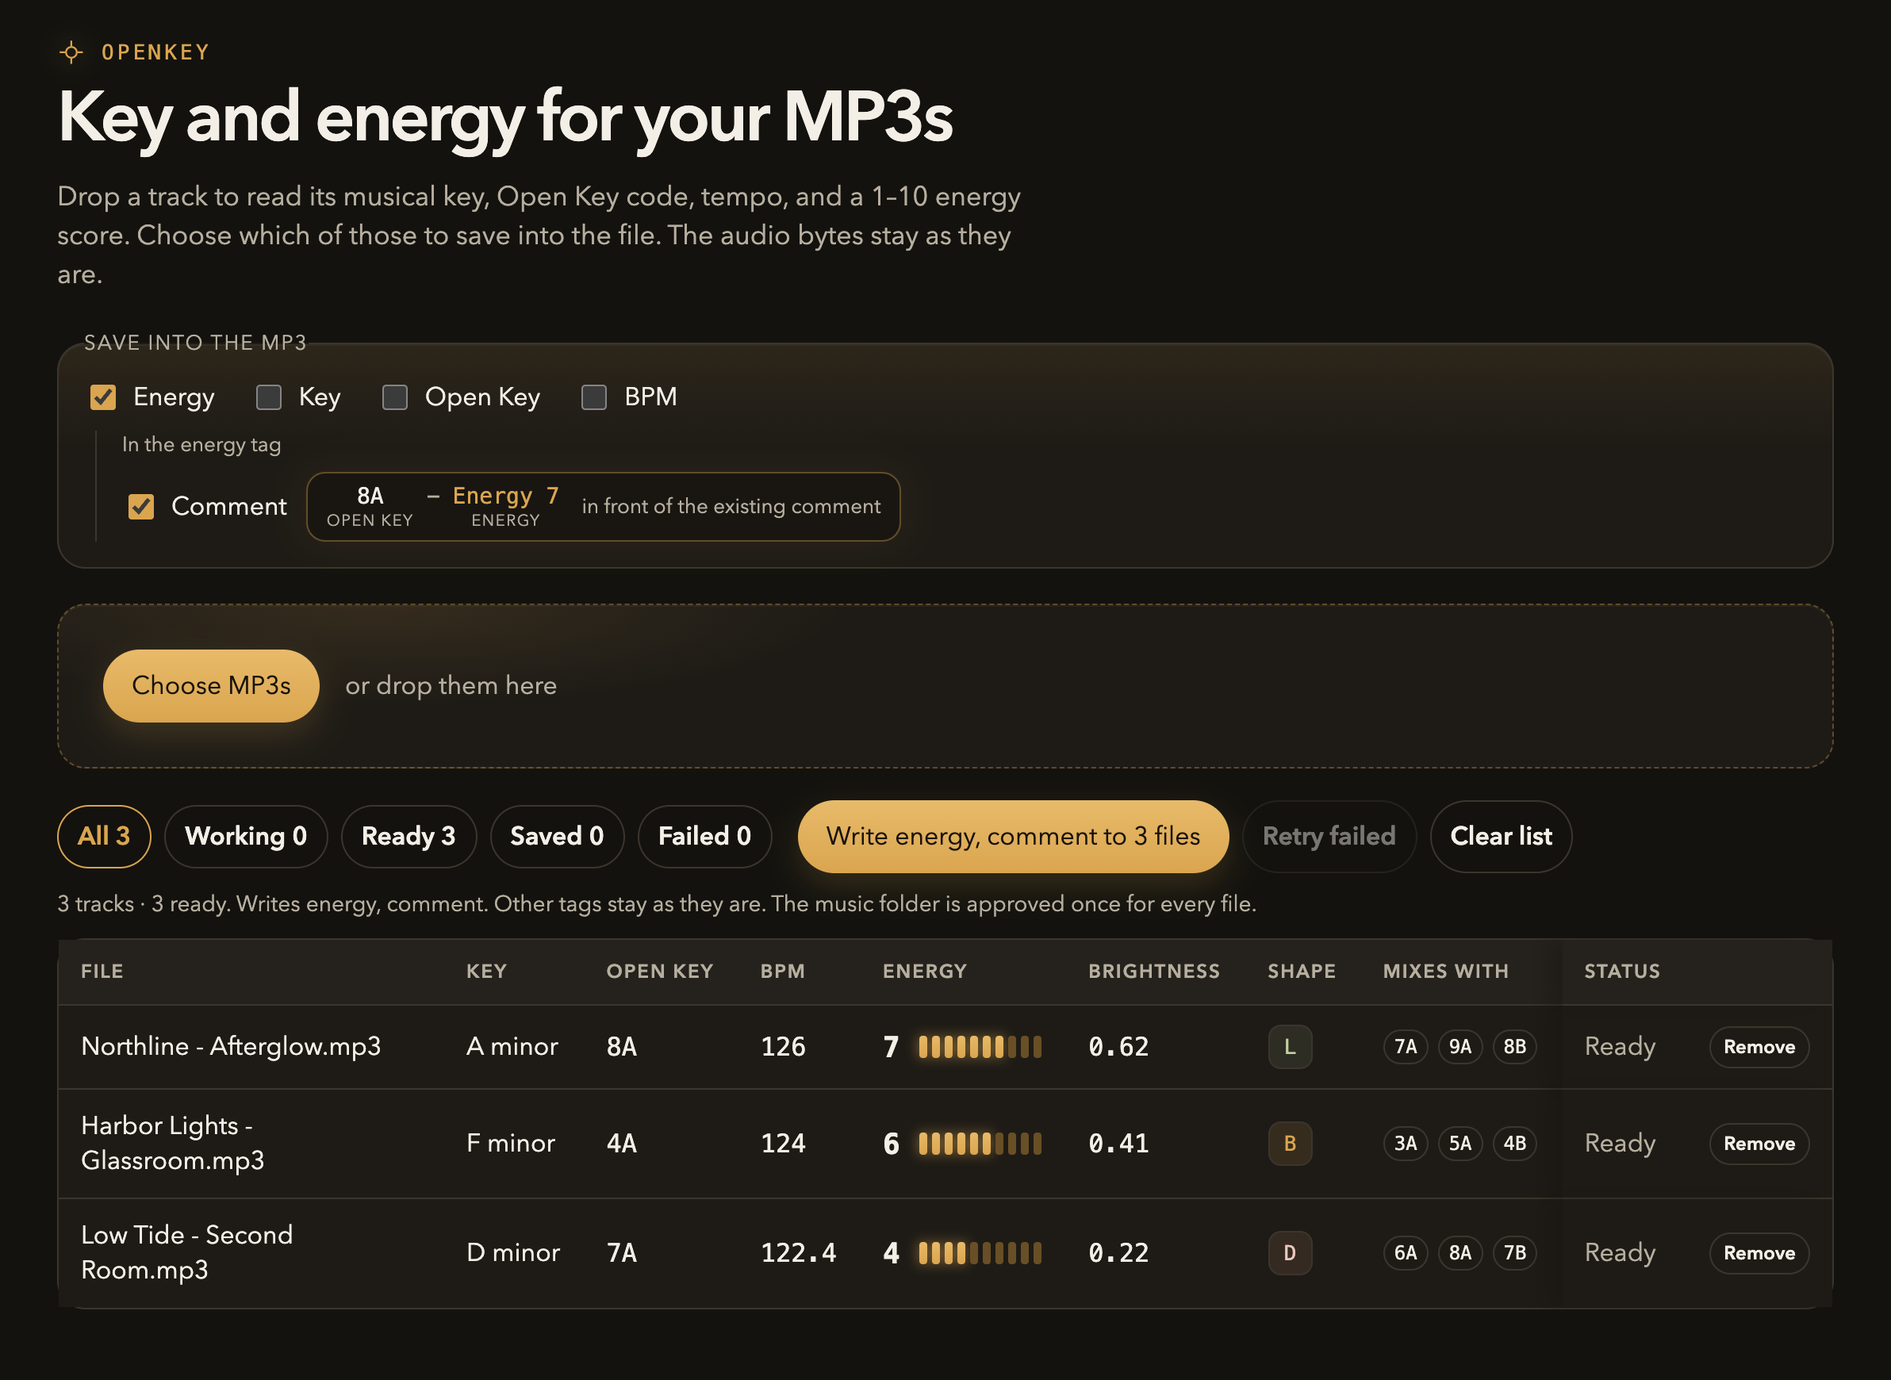
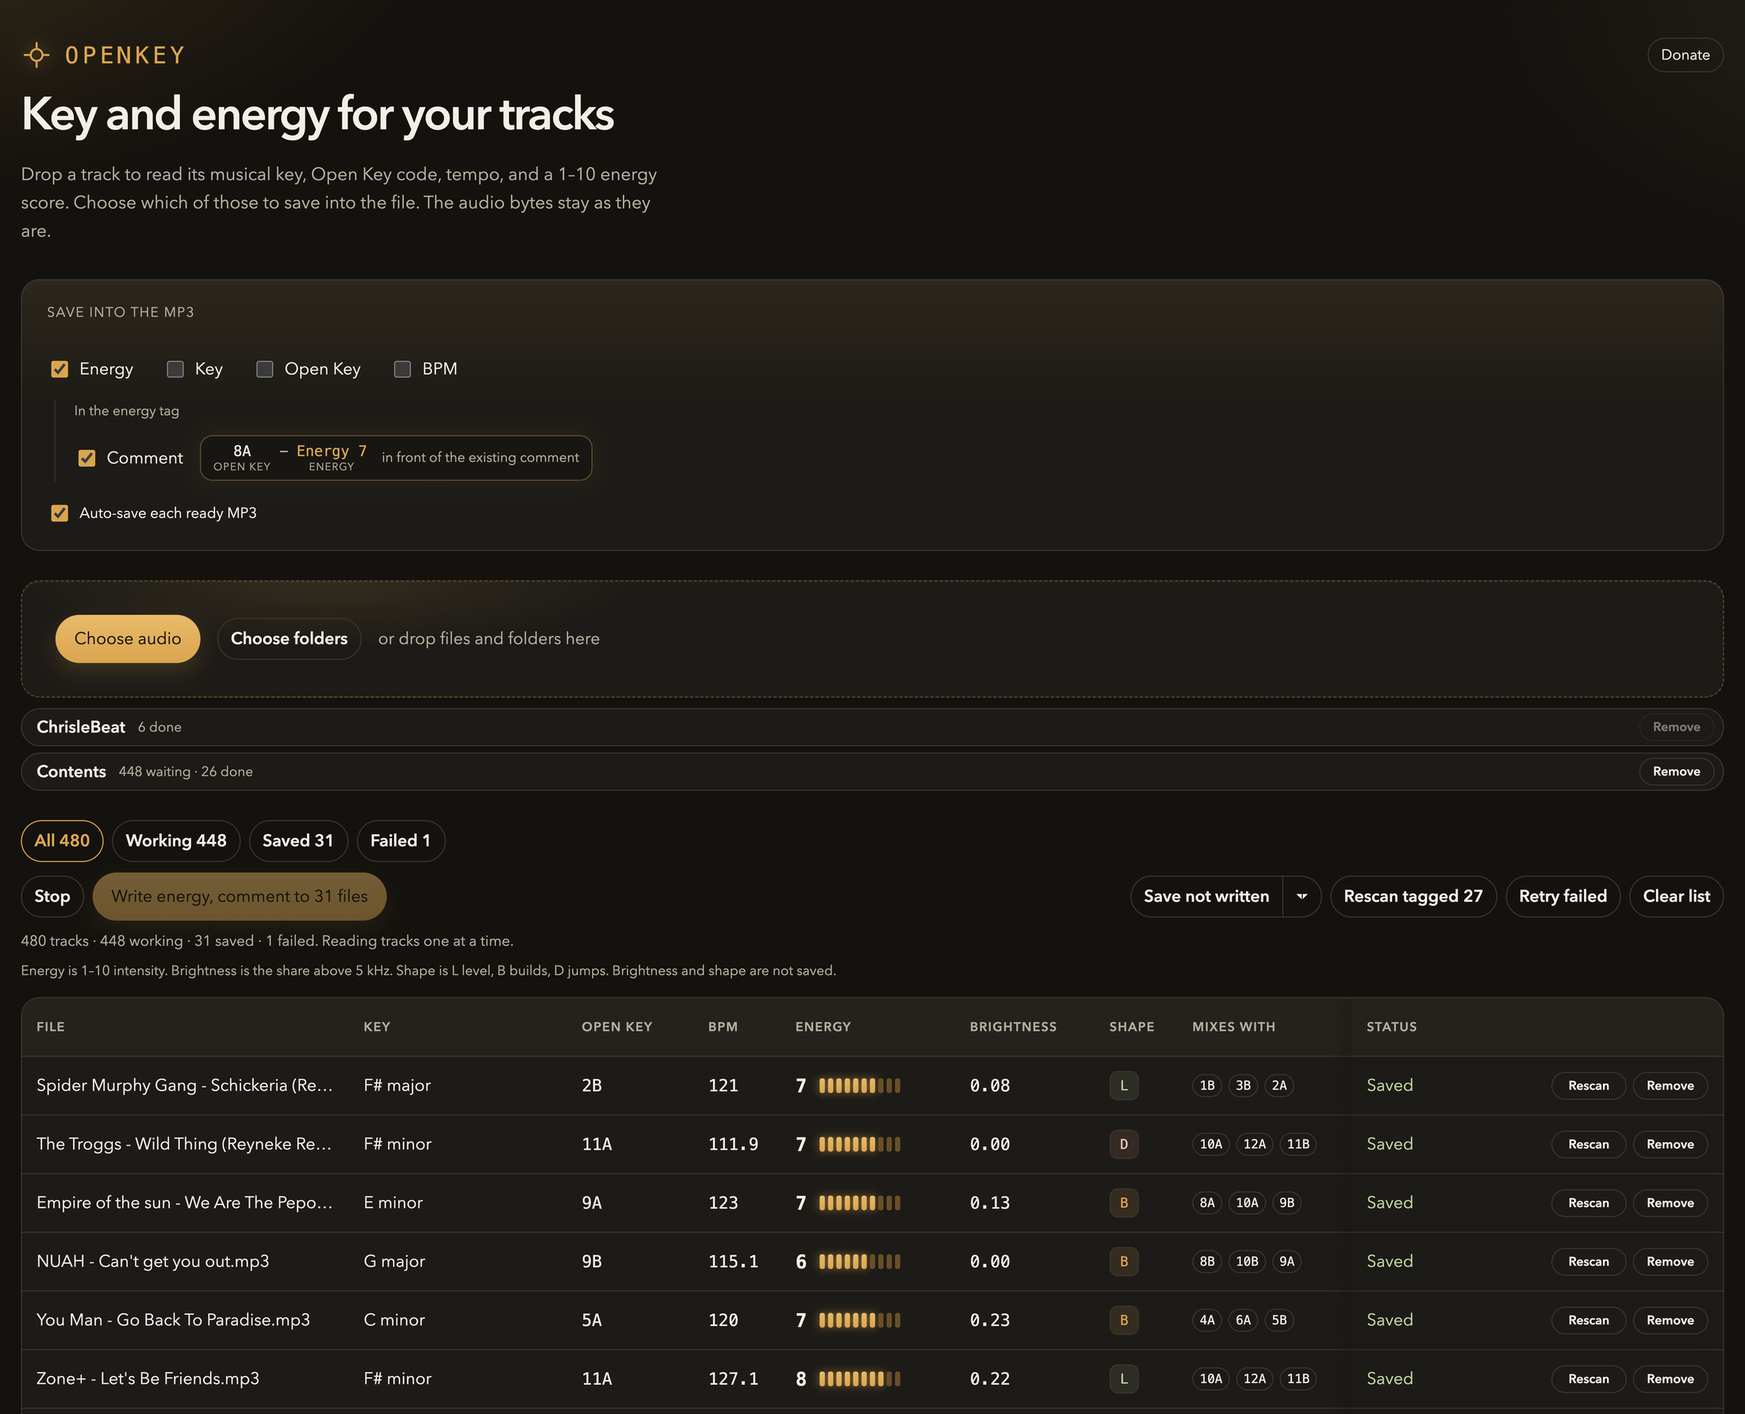
Save ready MP3s through a folder that is already allowed, and wait for one allow instead of a dialog per file. Bring the README and screenshot up to the current page.

diff --git a/src/App.tsx b/src/App.tsx
@@ -4,7 +4,7 @@ import type { Analysis } from "./analysis/types.ts"
 import { mixesWith } from "./analysis/openKey.ts"
 import { audioPickerTypes, collectAudioEntries, isAudioFile, isMp3Name } from "./files/audio.ts"
 import { ALL_COLUMNS, trackListCsv, UNWRITTEN_COLUMNS, type TrackListRow } from "./files/trackList.ts"
-import { canWrite, containingFolder, ensureWrite, grantedWriteHandle, loadLibraries, mergeFolders, pickFolder, rememberFolder, rememberMp3Paths, saveLibraries, type LibraryAccess } from "./files/library.ts"
+import { autoSaveAction, canWrite, containingFolder, ensureWrite, grantedWriteHandle, loadLibraries, mergeFolders, pickFolder, rememberFolder, rememberMp3Paths, saveLibraries, type LibraryAccess } from "./files/library.ts"
 import { queueFolderGroups, waitingIds } from "./files/queue.ts"
 import { formatMixedInKeyComment, isBulkRescanTarget, mergeShown, readStoredKeyFile, shouldSkipAnalysis, writeTags, type StoredKey } from "./id3/writeEnergy.ts"
 import "./App.css"
@@ -50,6 +50,7 @@ export default function App() {
   const [listExpanded, setListExpanded] = useState(false)
   const [autoSave, setAutoSave] = useState(readAutoSave)
   const autoSaveRef = useRef(autoSave)
+  autoSaveRef.current = autoSave
   const selectionRef = useRef<SaveSelection>({ energy: true, key: false, openKey: false, bpm: false, comment: true })
   selectionRef.current = {
     energy: saveEnergy,
@@ -128,17 +129,15 @@ export default function App() {
             }
           }
           if (shouldSkipAnalysis(track.analysis, track.rescan)) {
-            patch(id, {
-              status: track.status === "written" ? "written" : "ready",
-              stored,
-              rescan: false,
-            })
+            const status = track.status === "written" ? "written" : "ready"
+            patch(id, { status, stored, rescan: false })
+            if (status === "ready") queueReadySave(id)
             continue
           }
           const analysis = await analyzeFile(file)
           if (!tracksRef.current.some((item) => item.id === id)) continue
           patch(id, { status: "ready", analysis, stored, rescan: false })
-          if (!stoppedRef.current && autoSaveRef.current && isMp3Name(track.name)) queueAutoSave(id)
+          queueReadySave(id)
         } catch (error) {
           patch(id, { status: "error", error: messageOf(error) })
         }
@@ -146,6 +145,7 @@ export default function App() {
     } finally {
       runningRef.current = false
       if (!stoppedRef.current && queueRef.current.length > 0) void pump()
+      else if (!stoppedRef.current) queueFinishedSaves()
     }
   }
 
@@ -311,6 +311,16 @@ export default function App() {
     const selection = currentSelection()
     const ready = tracksToSave(includeWritten)
     if (ready.length === 0 || !hasSelection(selection)) return
+    const folders: FileSystemDirectoryHandle[] = []
+    for (const track of ready) {
+      if (track.directory && !folders.includes(track.directory)) folders.push(track.directory)
+    }
+    for (const folder of folders) {
+      if (await canWrite(folder)) continue
+      if (await ensureWrite(folder)) continue
+      showNotice(NEEDS_EDIT)
+      return
+    }
     writingRef.current = true
     setWriting(true)
     showNotice("")
@@ -323,6 +333,7 @@ export default function App() {
     } finally {
       writingRef.current = false
       setWriting(false)
+      if (!stoppedRef.current) void drainAutoSave()
     }
   }
 
@@ -340,55 +351,99 @@ export default function App() {
     }
   }
 
-  function queueAutoSave(id: string) {
+  function queueReadySave(id: string) {
+    const track = tracksRef.current.find((item) => item.id === id)
+    if (!track?.analysis || !isMp3Name(track.name)) return
+    if (stoppedRef.current || !autoSaveRef.current) return
     if (!saveQueueRef.current.includes(id)) saveQueueRef.current.push(id)
     void drainAutoSave()
+  }
+
+  function queueFinishedSaves() {
+    if (stoppedRef.current || !autoSaveRef.current) return
+    for (const track of tracksRef.current) {
+      if (track.status !== "ready" || !track.analysis || !isMp3Name(track.name)) continue
+      if (!saveQueueRef.current.includes(track.id)) saveQueueRef.current.push(track.id)
+    }
+    if (saveQueueRef.current.length > 0) void drainAutoSave()
   }
 
   async function drainAutoSave() {
     if (saveLoopRef.current) return
     saveLoopRef.current = true
     try {
-      for (;;) {
-        if (stoppedRef.current) {
-          saveQueueRef.current = []
-          break
-        }
+      while (!stoppedRef.current) {
+        if (writingRef.current) break
         const id = saveQueueRef.current.shift()
         if (!id) break
         const track = tracksRef.current.find((item) => item.id === id)
-        if (!track?.analysis || !isMp3Name(track.name) || !autoSaveRef.current) continue
-        await saveIfWritable(track)
+        if (!track) continue
+        try {
+          const deferred = await saveIfWritable(track)
+          if (deferred) {
+            if (!saveQueueRef.current.includes(id)) saveQueueRef.current.unshift(id)
+            break
+          }
+        } catch (error) {
+          const row = rowWriteMessage(error)
+          patch(id, { status: "ready", error: row })
+          if (!row) showNotice(NEEDS_EDIT)
+        }
       }
+      if (stoppedRef.current) saveQueueRef.current = []
     } finally {
       saveLoopRef.current = false
-      if (!stoppedRef.current && saveQueueRef.current.length > 0) void drainAutoSave()
+      if (!stoppedRef.current && !writingRef.current && saveQueueRef.current.length > 0) void drainAutoSave()
     }
   }
 
-  async function saveIfWritable(track: Track) {
+  /** True when the save was deferred because a manual write is in progress. The id stays queued. */
+  async function saveIfWritable(track: Track): Promise<boolean> {
+    if (writingRef.current) return true
     const selection = selectionRef.current
-    if (!hasSelection(selection) || writingRef.current) return
     const current = tracksRef.current.find((item) => item.id === track.id)
-    if (!current) return
-    const analysis = track.analysis ?? current.analysis
-    if (!analysis) return
-    patch(track.id, { status: "writing", error: undefined })
-    try {
-      const folder = await containingFolder(current.handle, current.directory, foldersRef.current)
-      const withFolder = { ...current, analysis, directory: folder ?? undefined }
-      const allowed = withFolder.directory ? await canWrite(withFolder.directory) : await canWrite(current.handle)
-      if (!allowed) {
-        patch(track.id, { status: "ready", error: undefined })
-        showNotice(NEEDS_EDIT)
-        return
+    if (!current?.analysis && !track.analysis) return false
+    if (!current) return false
+    if (current.status === "written") return false
+    if (current.status === "writing" && savingRef.current.has(current.id)) return false
+    const analysis = current.analysis ?? track.analysis
+    if (!analysis) return false
+    let folder = current.directory ?? null
+    if (!folder) {
+      try {
+        folder = await containingFolder(current.handle, undefined, foldersRef.current)
+      } catch {
+        folder = null
       }
-      if (await writeTrack(withFolder, selection)) clearNeedsEdit()
-    } catch (error) {
-      const row = rowWriteMessage(error)
-      patch(track.id, { status: "ready", error: row })
-      if (!row) showNotice(NEEDS_EDIT)
     }
+    if (writingRef.current) return true
+    let directoryGranted = false
+    let fileGranted = false
+    try {
+      directoryGranted = folder ? await canWrite(folder) : false
+      fileGranted = directoryGranted ? false : await canWrite(current.handle)
+    } catch {
+      directoryGranted = false
+      fileGranted = false
+    }
+    const action = autoSaveAction({
+      enabled: autoSaveRef.current,
+      mp3: isMp3Name(current.name),
+      hasAnalysis: true,
+      selected: hasSelection(selection),
+      stopped: stoppedRef.current,
+      directoryGranted,
+      fileGranted,
+    })
+    if (action === "skip") return false
+    if (action === "wait") {
+      patch(current.id, { status: "ready", error: undefined, directory: folder ?? current.directory })
+      showNotice(NEEDS_EDIT)
+      return false
+    }
+    const saved = await writeTrack({ ...current, analysis, directory: folder ?? current.directory }, selection)
+    if (saved) clearNeedsEdit()
+    return false
   }
 
   async function saveBatch(ready: Track[], selection: SaveSelection) {
@@ -576,6 +631,7 @@ export default function App() {
     stoppedRef.current = false
     setStopped(false)
     void pump()
+    queueFinishedSaves()
   }
 
   function removeFolder(directory: FileSystemDirectoryHandle) {

diff --git a/src/files/library.test.ts b/src/files/library.test.ts
@@ -1,5 +1,5 @@
 import { describe, expect, it } from "vitest"
-import { containingFolder, ensureWrite, grantedWriteHandle, matchByName, rememberFolder, rememberMp3Paths, writableFile } from "./library.ts"
+import { autoSaveAction, containingFolder, ensureWrite, grantedWriteHandle, matchByName, rememberFolder, rememberMp3Paths, writableFile } from "./library.ts"
 
 describe("matchByName", () => {
   it("returns the candidate that is the same file", async () => {
@@ -48,6 +48,38 @@ describe("ensureWrite", () => {
   })
 })
 
+describe("autoSaveAction", () => {
+  const ready = {
+    enabled: true,
+    mp3: true,
+    hasAnalysis: true,
+    selected: true,
+    stopped: false,
+    directoryGranted: false,
+    fileGranted: false,
+  }
+
+  it("writes when the folder is granted even if the listed file is only prompt", () => {
+    expect(autoSaveAction({ ...ready, directoryGranted: true, fileGranted: false })).toBe("write")
+  })
+
+  it("writes a file the user already allowed on its own", () => {
+    expect(autoSaveAction({ ...ready, fileGranted: true })).toBe("write")
+  })
+
+  it("waits for one folder grant when nothing is writable yet", () => {
+    expect(autoSaveAction(ready)).toBe("wait")
+  })
+
+  it("skips when auto-save is off, the file is not an mp3, or the queue is stopped", () => {
+    expect(autoSaveAction({ ...ready, enabled: false, directoryGranted: true })).toBe("skip")
+    expect(autoSaveAction({ ...ready, mp3: false, directoryGranted: true })).toBe("skip")
+    expect(autoSaveAction({ ...ready, hasAnalysis: false, directoryGranted: true })).toBe("skip")
+    expect(autoSaveAction({ ...ready, selected: false, directoryGranted: true })).toBe("skip")
+    expect(autoSaveAction({ ...ready, stopped: true, directoryGranted: true })).toBe("skip")
+  })
+})
+
 describe("grantedWriteHandle", () => {
   it("gets a fresh handle from the folder instead of the dropped file", async () => {
     const dropped = permissionFile("song.mp3", "prompt")
@@ -76,6 +108,32 @@ describe("grantedWriteHandle", () => {
     const file = permissionFile("song.mp3", "granted")
     await expect(grantedWriteHandle(undefined, file)).resolves.toBe(file)
     expect(file.requested).toBe(false)
+  })
+
+  it("re-fetches a listed file from a granted folder without walking or prompting", async () => {
+    const listed = permissionFile("song.mp3", "prompt")
+    const fresh = permissionFile("song.mp3", "prompt")
+    let walked = false
+    const directory = {
+      kind: "directory",
+      name: "Edits",
+      requested: false,
+      queryPermission: async () => "granted" as PermissionState,
+      requestPermission: async function (this: { requested: boolean }) {
+        this.requested = true
+        return "granted" as PermissionState
+      },
+      resolve: async () => ["song.mp3"],
+      getFileHandle: async () => fresh,
+      values: () => {
+        walked = true
+        throw new Error("should not walk")
+      },
+    } as unknown as FileSystemDirectoryHandle & { requested: boolean }
+    await expect(grantedWriteHandle(directory, listed)).resolves.toBe(fresh)
+    expect(walked).toBe(false)
+    expect(directory.requested).toBe(false)
+    expect(listed.requested).toBe(false)
   })
 
   it("resolves the file through the folder when that folder can already be written", async () => {

diff --git a/src/files/library.ts b/src/files/library.ts
@@ -14,6 +14,27 @@ export async function canWrite(handle: FileSystemHandle): Promise<boolean> {
   return (await handle.queryPermission({ mode: "readwrite" })) === "granted"
 }
 
+export type AutoSaveAction = "write" | "wait" | "skip"
+
+/**
+ * A listed file often reports readwrite "prompt" even when its folder is already granted.
+ * That prompt must not block a write, and it must not open a per-file save dialog.
+ * Write when the folder or that exact file is already granted. Otherwise wait for one click.
+ */
+export function autoSaveAction(input: {
+  enabled: boolean
+  mp3: boolean
+  hasAnalysis: boolean
+  selected: boolean
+  stopped: boolean
+  directoryGranted: boolean
+  fileGranted: boolean
+}): AutoSaveAction {
+  if (!input.enabled || !input.mp3 || !input.hasAnalysis || !input.selected || input.stopped) return "skip"
+  if (input.directoryGranted || input.fileGranted) return "write"
+  return "wait"
+}
+
 /** True when the site can already look inside this folder. Does not prompt. */
 export async function canRead(handle: FileSystemHandle): Promise<boolean> {
   if (!handle.queryPermission) return false
@@ -132,8 +153,10 @@ export async function acquireLibrary(saved: FileSystemDirectoryHandle | null): P
 }
 
 /**
- * A file handle obtained from a folder that already has readwrite permission.
- * Dropped file handles are not returned: createWritable on those opens a save dialog per file.
+ * A file handle taken from a folder that already has readwrite permission.
+ * The handle returned by a folder listing stays "prompt" for readwrite; createWritable on it
+ * opens a save dialog per file or never settles. Re-fetch with getFileHandle instead.
+ * Does not request permission and does not walk the folder.
  */
 export async function grantedWriteHandle(
   directory: FileSystemDirectoryHandle | undefined,
@@ -141,13 +164,19 @@ export async function grantedWriteHandle(
   path?: readonly string[],
 ): Promise<FileSystemFileHandle | null> {
   try {
-    if (directory) {
-      if (!(await canWrite(directory))) return null
+    if (directory && (await canWrite(directory))) {
       if (path && path.length > 0) {
         const located = await fileAtPath(directory, path)
         if (located) return located
       }
-      return await writableFile(directory, file)
+      const resolved = await fileFromDirectory(directory, file).catch(() => null)
+      if (resolved) return resolved
+      const cached = listings.get(directory)
+      if (cached) {
+        const found = await handleFromIndex(directory, file, await cached)
+        if (found) return found
+      }
+      return null
     }
     if (await canWrite(file)) return file
     return null

diff --git a/README.md b/README.md
@@ -21,7 +21,7 @@ npm install
 npm run dev
 ```
 
-Open the address Vite prints. Drop audio or a folder on the page, or choose files or folders. A dropped folder can be read at once. Chrome asks once for permission to edit it before tags are written. Chrome asks for one folder at a time; cancel when you are done. Each folder joins the queue immediately, including its subfolders. Analysis runs one file at a time. An MP3 that already has a musical key or Open Key shows that key at once, then analysis fills BPM, energy, brightness, and shape. Brightness and shape are not in the file, so they are calculated here. Rescan tagged analyzes every tagged file in the list again. Rescan on a row does the same for that file. Stop finishes the current file and leaves the drive alone. Resume continues the queue. This page cannot eject a USB drive. When nothing is reading or writing, eject it in Finder. If macOS still says the drive is in use, close the tab. A long list stays folded at 20 rows until you show every row. The status filters stay in view.
+Open the address Vite prints. Drop audio or a folder on the page, or choose files or folders. Several folders can be queued, including their subfolders. A dropped folder is readable immediately. Editing needs one allow: Chrome asks once per folder, not once per file. Choose folders asks for one folder at a time; cancel when you are done. Analysis runs one file at a time. A key already in the file is shown at once. BPM, energy, brightness, and shape are still calculated unless this session already has them. Brightness and shape are never written. Rescan tagged re-queues those files. Rescan on a row does the same for that file. Stop finishes the current file so a USB drive can be ejected in Finder. Resume continues the queue. This page cannot eject a drive. If macOS still says the drive is in use, close the tab. A long list stays folded at 20 rows until you show every row. The status filters stay in view.
 
 ## What a row means
 
@@ -34,7 +34,7 @@ Open the address Vite prints. Drop audio or a folder on the page, or choose file
 | Energy | A 1–10 intensity score for electronic music. A steady club track lands around 7. A sparser groove lands around 4. This is not a loudness meter, so a brickwalled master does not automatically score high. |
 | Brightness | How much of the signal sits above 5 kHz, from 0 to 1. `0.00` is dark. `1.00` is bright. Shown to two decimals. |
 | Shape | How the drive changes through the track. **L** stays level, **B** builds, **D** jumps between a quiet stretch and a peak. Hover a letter for the plain-language description. |
-| Status | Queued, analyzing, ready, saving, saved, or failed. A key already in the file shows while the rest is calculated. Remove drops that row. It does not delete the MP3. |
+| Status | Queued, analyzing, ready, saving, saved, or failed. With auto-save on, an MP3 that still needs folder permission says Waiting to save. A key already in the file shows while the rest is calculated. Remove drops that row. It does not delete the MP3. |
 
 Brightness and shape are there to read. They are not written into the file.
 
@@ -52,7 +52,7 @@ The same file always produces the same energy, brightness, and shape. A key tag 
 
 Energy and Comment are on by default. Key, Open Key, and BPM stay off, so those tags are left alone until you turn them on. Nothing you leave unchecked is deleted.
 
-Auto-save is off until you turn it on. It writes the checked tags into each MP3 as soon as that track is ready. WAV and the other formats stay read-only. Brightness and shape are still not written.
+Auto-save is off until you turn it on. It writes the checked tags into each ready MP3. With auto-save on there is no Ready filter. Files waiting for folder permission say Waiting to save until Allow editing. WAV and the other formats stay read-only. Brightness and shape are still not written.
 
 **Energy** goes into the energy tag DJ software reads: an ID3 `TXXX` frame described as `EnergyLevel`, with a value from `1` to `10`.
 
